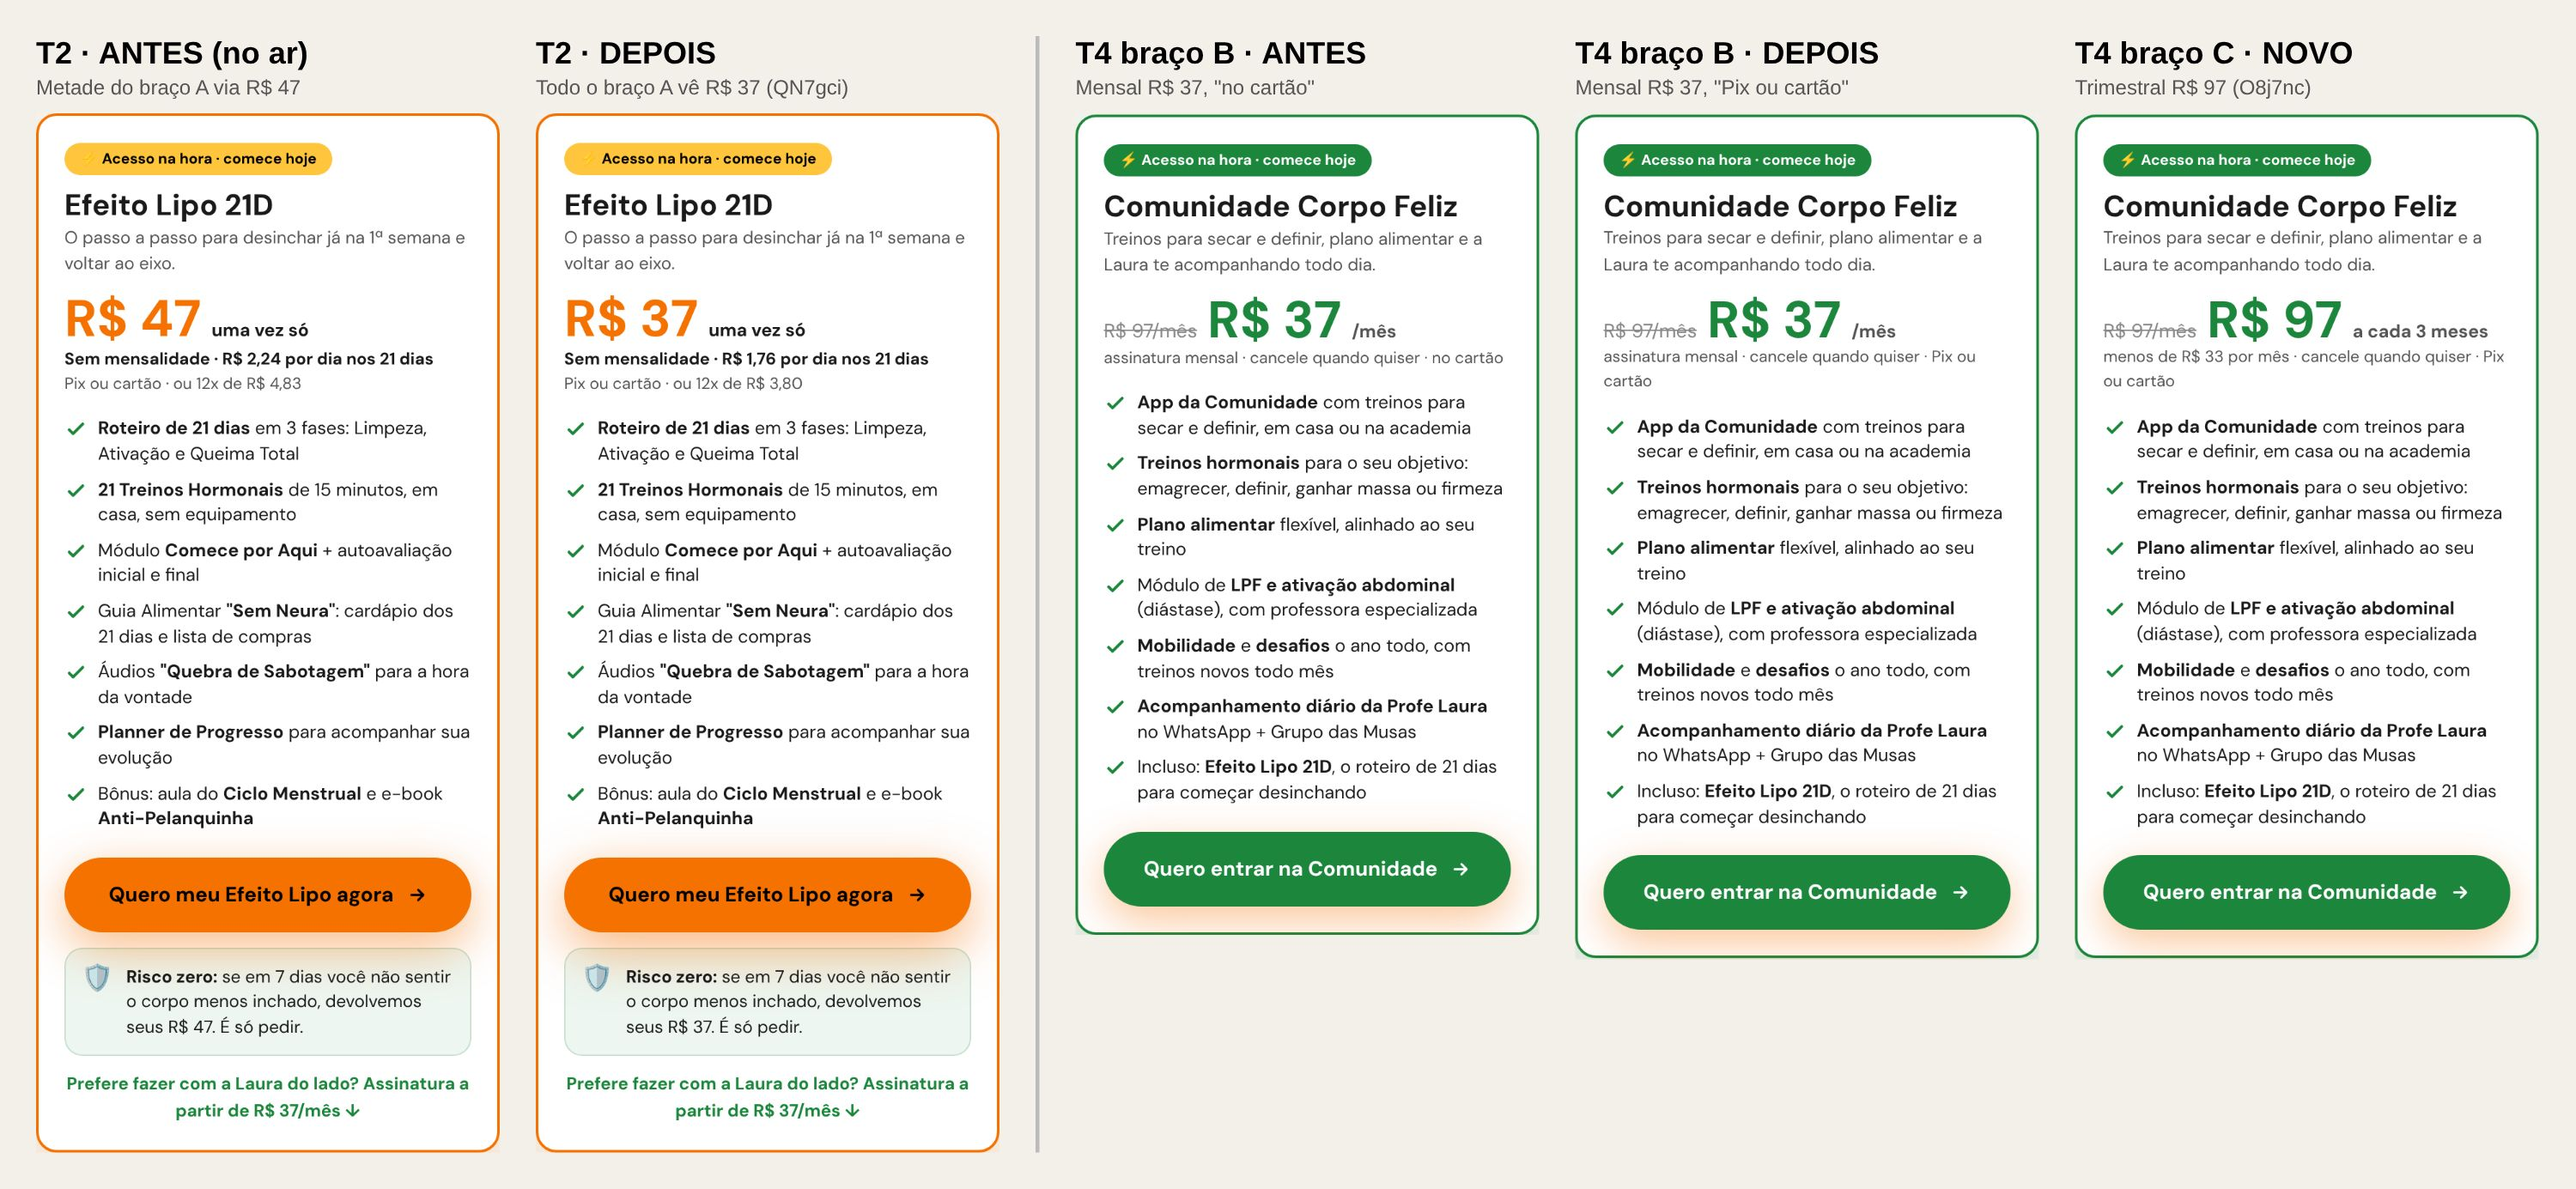
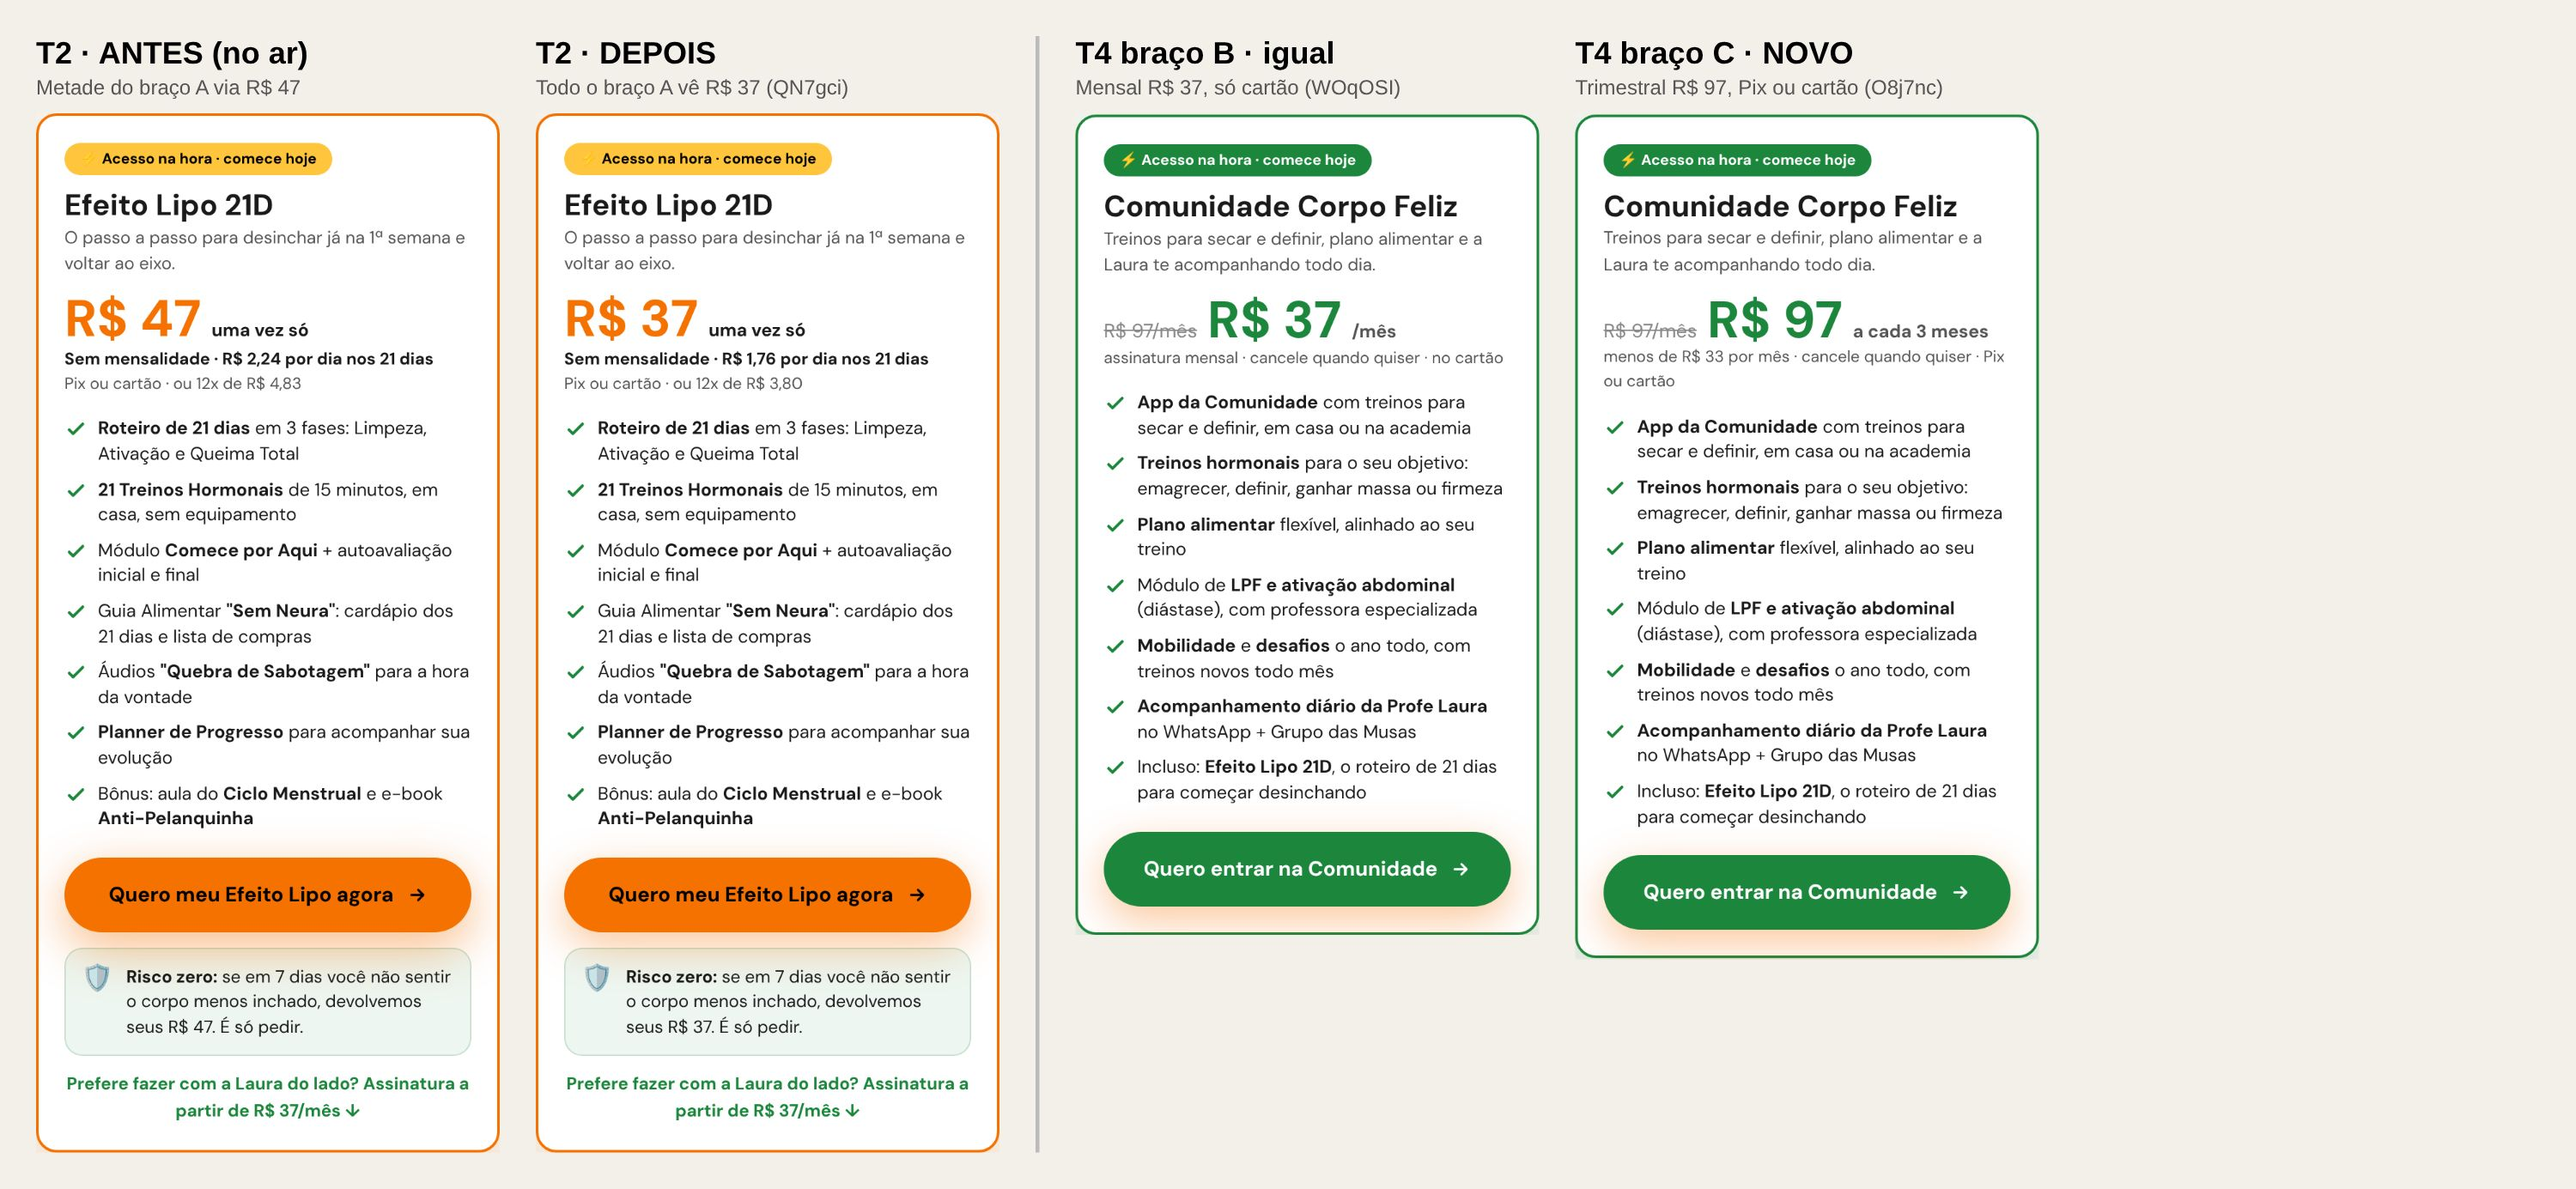
Quiz: braço B do T4 só no cartão, T4 conta de 10/10 15h, diário e docs
Patrik decidiu manter a WOqOSI só no cartão; o E-C (O8j7nc) mostra
"Pix ou cartão". Registro no diário do quiz, TESTE_A_OFERTAS e
PAINEL_CORPO_FELIZ.

Claude-Session: https://claude.ai/code/session_01WoiGwQ8HrcXzpgVXVEJnJ2

diff --git a/app/efeito-lipo-quiz/_quiz.tsx b/app/efeito-lipo-quiz/_quiz.tsx
@@ -537,10 +537,10 @@ function useCountdown(start = 600) {
 // alternativa. Teste B (preço do EL) encerrado em 10/10: todos veem R$ 37 (OFERTA_AB em _data.ts).
 // Teste E (pickComElArm): no E-B e no E-C sai o EL e a Comunidade vira o cartão principal
 // (E-B mensal R$ 37/mês, E-C trimestral R$ 97 a cada 3 meses).
-type Sub = { preco: string; per: string; nota: string; parcCurta: string }
+type Sub = { preco: string; per: string; nota: string; pag: string; parcCurta: string }
 type Oferta = { id: string; el: null | { preco: string; parc: string; dia: string }; sub: Sub }
-const SUB_MENSAL: Sub = { preco: '37', per: '/mês', nota: 'assinatura mensal · cancele quando quiser', parcCurta: 'R$ 37/mês' }
-const SUB_TRI: Sub = { preco: '97', per: 'a cada 3 meses', nota: 'menos de R$ 33 por mês · cancele quando quiser', parcCurta: 'R$ 97 a cada 3 meses' }
+const SUB_MENSAL: Sub = { preco: '37', per: '/mês', nota: 'assinatura mensal · cancele quando quiser', pag: 'no cartão', parcCurta: 'R$ 37/mês' } // WOqOSI: só cartão (decisão do Patrik, 10/10)
+const SUB_TRI: Sub = { preco: '97', per: 'a cada 3 meses', nota: 'menos de R$ 33 por mês · cancele quando quiser', pag: 'Pix ou cartão', parcCurta: 'R$ 97 a cada 3 meses' } // O8j7nc aceita Pix
 const OFERTAS: Record<'A' | 'B', Oferta> = {
   A: { id: 'A', el: { preco: '37', parc: '12x de R$ 3,80', dia: '1,76' }, sub: SUB_MENSAL },
   B: { id: 'B', el: { preco: '47', parc: '12x de R$ 4,83', dia: '2,24' }, sub: SUB_MENSAL },
@@ -630,7 +630,7 @@ function Sales({ perfil, answers, onOferta, onCheckout }: { perfil: InnerProps['
         <span className="font-display" style={{ fontSize: principal ? 40 : 32, fontWeight: 800, color: 'var(--g)', lineHeight: 1 }}>R$ {of.sub.preco}</span>
         <span style={{ fontSize: 14, color: 'var(--sub)', fontWeight: 700 }}>{of.sub.per}</span>
       </div>
-      <div style={{ fontSize: 12.5, color: 'var(--sub)' }}>{of.sub.nota} · Pix ou cartão</div>
+      <div style={{ fontSize: 12.5, color: 'var(--sub)' }}>{of.sub.nota} · {of.sub.pag}</div>
       {/* Entregáveis como a Aline apresenta a Comunidade no WhatsApp (aprovado pelo Patrik em 09/10) */}
       <ul className="space-y-2 mt-4">
         <Item><b>App da Comunidade</b> com treinos para secar e definir, em casa ou na academia</Item>

diff --git a/app/painel/testes/page.tsx b/app/painel/testes/page.tsx
@@ -65,7 +65,7 @@ export default async function Testes() {
 
   const testes: Teste[] = [
     { id: 'T1', nome: '1ª tela do quiz: tela atual × título de recomeço', status: 'no ar desde 09/10 13h40', baseRot: 'visitas', posRot: 'começaram', sobre: 'Metade vê a tela atual; metade vê "Descubra seu perfil de recomeço em 2 minutos…". Mede quantas começam o quiz. É o teste que mais recebe gente.', bracos: [t1('G-A', 'A · tela atual'), t1('G-B', 'B · título de recomeço')] },
-    { id: 'T4', nome: 'Oferta: com Efeito Lipo × só a Comunidade (mensal ou trimestral)', status: `3 braços desde ${horaBR(T4_DESDE)}`, baseRot: 'visitas na oferta', posRot: 'compraram', sobre: 'Um terço vê Efeito Lipo R$ 37 + Comunidade; um terço vê só a Comunidade a R$ 37/mês (Pix ou cartão); um terço vê só a Comunidade trimestral a R$ 97 a cada 3 meses. Decida pela receita por visita: o braço que vende menos pode faturar mais.', bracos: [t4('E-A', 'A · Efeito Lipo + Comunidade'), t4('E-B', 'B · só Comunidade R$ 37/mês'), t4('E-C', 'C · só Comunidade R$ 97/trimestre')] },
+    { id: 'T4', nome: 'Oferta: com Efeito Lipo × só a Comunidade (mensal ou trimestral)', status: `3 braços desde ${horaBR(T4_DESDE)}`, baseRot: 'visitas na oferta', posRot: 'compraram', sobre: 'Um terço vê Efeito Lipo R$ 37 + Comunidade; um terço vê só a Comunidade a R$ 37/mês (só cartão); um terço vê só a Comunidade trimestral a R$ 97 a cada 3 meses (Pix ou cartão). Decida pela receita por visita: o braço que vende menos pode faturar mais.', bracos: [t4('E-A', 'A · Efeito Lipo + Comunidade'), t4('E-B', 'B · só Comunidade R$ 37/mês'), t4('E-C', 'C · só Comunidade R$ 97/trimestre')] },
   ]
   const t2Fim = [t2('greenn', 'A · R$ 37 (QN7gci)'), t2('greenn-B', 'B · R$ 47 (gLO7Gm)')]
 

diff --git a/app/efeito-lipo-quiz/_data.ts b/app/efeito-lipo-quiz/_data.ts
@@ -128,7 +128,7 @@ export const CHECKOUT_HREF_GREENN =
 // Teste B (preço do Efeito Lipo, 09/10): braço B = R$ 47 (oferta gLO7Gm, mesmos 3 bumps da QN7gci).
 export const CHECKOUT_HREF_GREENN_B =
   'https://payfast.greenn.com.br/redirect/795991?utm_source=efeito-lipo-quiz'
-// Assinatura da Comunidade R$ 37/mês (oferta WOqOSI, recorrente, Pix ou cartão). Mesmos UTMs do EL.
+// Assinatura da Comunidade R$ 37/mês (oferta WOqOSI, recorrente, só cartão). Mesmos UTMs do EL.
 export const CHECKOUT_HREF_SUB =
   'https://payfast.greenn.com.br/148344/offer/WOqOSI?ch_id=140597&utm_source=efeito-lipo-quiz'
 // Comunidade trimestral R$ 97 a cada 3 meses (oferta O8j7nc, a mesma do upsell; aceita Pix). Braço E-C do teste E.
@@ -163,8 +163,8 @@ export function pickOfertaArm(): OfertaArm {
 
 // Teste E (com ou sem Efeito Lipo; 3 braços desde 10/10, um terço cada):
 // E-A = cartão do EL R$ 37 + Comunidade mensal como alternativa;
-// E-B = só a Comunidade mensal R$ 37/mês (WOqOSI);
-// E-C = só a Comunidade trimestral R$ 97 a cada 3 meses (O8j7nc).
+// E-B = só a Comunidade mensal R$ 37/mês (WOqOSI, só cartão);
+// E-C = só a Comunidade trimestral R$ 97 a cada 3 meses (O8j7nc, Pix ou cartão).
 export const COM_EL_AB_KEY = 'el_com_ab'
 export type ComElArm = 'E-A' | 'E-B' | 'E-C'
 export function pickComElArm(): ComElArm {

diff --git a/app/painel/_config.ts b/app/painel/_config.ts
@@ -136,10 +136,10 @@ export const TESTES_DESDE = '2026-10-09T16:30:00-03:00'
 export const TESTE_MIN = 100 // mínimo no braço menor para decidir
 export const TESTE_CHANCE = 0.95 // chance mínima para decidir
 // T2 (preço do EL R$ 37 × R$ 47) encerrado em 10/10 sem volume para decidir.
-export const T2_FIM = '2026-10-10T18:00:00-03:00'
-// T4 com 3 braços (E-A com EL, E-B mensal R$ 37 com Pix, E-C trimestral R$ 97) conta daqui:
-// antes disso o E-B era só cartão e o E-C não existia. Ajustar para a hora exata do deploy.
-export const T4_DESDE = '2026-10-10T18:00:00-03:00'
+export const T2_FIM = '2026-10-10T15:00:00-03:00'
+// T4 com 3 braços (E-A com EL R$ 37, E-B mensal R$ 37 só cartão, E-C trimestral R$ 97) conta daqui:
+// antes disso eram 2 braços e metade do E-A via o EL a R$ 47. Deploy de 10/10 ficou pronto antes das 15h.
+export const T4_DESDE = '2026-10-10T15:00:00-03:00'
 
 // Faixas de referência (pesquisa de mercado, 09/10; são pontos de partida, não regra).
 export const REGUA = {

diff --git a/docs/QUIZ_REVISAO.md b/docs/QUIZ_REVISAO.md
@@ -165,6 +165,7 @@ Pasta `tools/quiz-revisao/`: tem dependências próprias e não entra no build d
 
 Uma linha por sessão: data, o que foi feito e o que ficou pendente. Mais recente em cima.
 
+- **10/10/2026, 15h**: **Fim do teste B (T2) e T4 com 3 braços** (aprovado pelo Patrik). Análise do mês: os testes do quiz não mudaram o caixa (quiz novo 2 vendas em 4 dias, R$ 73 líquido para R$ 330 no Meta; 97% do líquido do período é Comunidade). T2 encerrado (`OFERTA_AB.enabled=false`, todos veem o EL a R$ 37). T4: um terço E-A (EL R$ 37 + Comunidade), um terço E-B (só Comunidade mensal R$ 37, WOqOSI, **só cartão**, decisão do Patrik), um terço E-C (só Comunidade trimestral R$ 97, O8j7nc, Pix ou cartão; o Patrik confirmou que dá acesso à Comunidade, apesar do nome "Acompanhamento 30 dias + 60 dias grátis" no checkout). Painel `/painel/testes`: T2 em encerrados, T4 conta de `T4_DESDE` (10/10 15h) com receita por visita. Antes × depois em `tools/quiz-revisao/esbocos/img/cmp-T2-fim-T4-tres-bracos.jpg`. Achado: das 7 que clicaram na mensal só cartão, nenhuma tentou pagar; todas as compras do quiz em outubro foram Pix. Atenção: E-B (só cartão) × E-C (com Pix) mistura preço e forma de pagamento. **Pendente:** ler o T4 pela receita por visita (≈ 2 semanas no ritmo atual).
 - **09/10/2026 (2), fim da tarde**: **Nova estratégia: Efeito Lipo no-brainer + assinatura como âncora** (nada no ar). T26 refeita e aprovada (EL em destaque, "R$ 37 uma vez só", garantia de 7 dias amarrada a "corpo menos inchado", 5 ofertas A–E em teste), T25 aprovada, T1 vai a teste A/B, upsell volta para `/acompanhamento-up` testando assinatura 37/mês × trimestral 97, painel único e página MAXXIMA decididos. Esboços em `tools/quiz-revisao/esbocos/` (`montar.sh`). Estado completo, decisões e fila em **`docs/RETOMAR_OFERTA_EL.md`**. **Pendente:** Patrik criar na Greenn a oferta EL R$ 47 e mandar o link (item 1 da fila).
 - **09/10/2026 (1), 10h**: **Esboço da T26 com duas opções** (nada no ar; proposta `quiz-t26-duas-opcoes-20261009` no painel, com imagens antes × depois). Decisões do Patrik: Comunidade como assinatura **R$ 27/mês, cancele quando quiser** (só cartão, R$ 97/mês riscado, assinante acessa todo o conteúdo do roteiro, sem limite de atendimento); roteiro sozinho a **R$ 47** (12x R$ 4,83) com os 3 entregáveis que existem (Guia "Sem Neura", Áudios, Planner) + 2 bônus; Comunidade conta na meta (texto da meta atualizado). T25 no esboço: marcos sem quilos, quadro "O que mais ajuda o seu perfil", botão "Ver como começar". Dados usados: outubro até 09/10 low ticket R$ 277 líquido × Comunidade R$ 6.349; mensal da Comunidade dura 1,3 mês em média, planos anuais ~10,7 meses; maior medo no quiz = "gastar e não ter resultado" (10 de 22). **Pendente:** Patrik criar na Greenn as ofertas (roteiro R$ 47 com os mesmos bumps; Comunidade R$ 27/mês) e mandar os links + ok final no esboço; conferir a duração média da assinatura com 30 e 60 dias.
 - **08/10/2026 (10), 18h53**: **fbclid no checkout** (PR #15, merge `cd27aed`), aprovado pelo Patrik com antes/depois: o beacon guarda o `fbclid` da entrada em `el_fbclid` e `checkoutHrefFor` cola `&fbclid=` no link da Greenn (o redirect `/redirect/297430` preserva o parâmetro até a QN7gci, testado). Sem mudança de tela, então não virou versão nova (anotado no cartão da v7). Hotmart de reserva mantida (decisão do Patrik). **Conferir:** na próxima venda vinda de anúncio, se a "Compra Realizada" do pixel da LP aparece ligada ao anúncio.

diff --git a/docs/PAINEL_CORPO_FELIZ.md b/docs/PAINEL_CORPO_FELIZ.md
@@ -13,7 +13,7 @@ Senha: a mesma do dashboard (variável `QUIZ_DASHBOARD_PASSWORD` na Vercel).
 | Tráfego | Anúncios e ROI | `/painel/anuncios` | Campanha / conjunto / anúncio: gasto, CTR, CPM, cliques, % que abriu a página, visitas e início do quiz, clique em comprar, compras reais, líquido, ROI, custo por compra, sinal (Escalar, Lucrando, Prejuízo, Pausar?, Trocar criativo) e "Como melhorar" |
 | Tráfego | Criativos | `/painel/anuncios?nivel=anuncio` | A mesma tabela no nível anúncio |
 | Quiz e oferta | Funil do quiz | `/painel/quiz` | Tela a tela (onde as pessoas param), perfil de recomeço, anúncio de origem com valor por visita, respostas que mais compram, últimas sessões |
-| Quiz e oferta | Testes A/B | `/painel/testes` | T1, T4, T2 com a chance de cada braço ser o melhor (duas proporções) + ideias T3, T5, T6 |
+| Quiz e oferta | Testes A/B | `/painel/testes` | T1 e T4 (3 braços) com a chance de cada braço ser o melhor (duas proporções contra o A), T2 em encerrados + ideias T3 e T6 |
 | Quiz e oferta | Recuperar vendas | `/painel/recuperar` | Pix/boleto sem pagar e cartão recusado (com botão de WhatsApp), quem clicou comprar e não comprou, e "Por que não compram" |
 | Vendas | Origem e comercial | `/painel/comercial` | De onde veio cada venda (Quiz, Anúncio direto, WhatsApp da Aline, Hotmart direto, Renovação), Comunidade nova × renovação, plano, oferta, dia a dia e funil da Aline (CRM, se ligado) |
 | Vendas | Visão da marca, Canais, Cross-sell, Recorrência | `/painel/marca`, `/canais`, `/cross-sell`, `/recorrencia` | As abas antigas do Painel da Marca. A Recorrência ganhou a lista de assinaturas a vencer e vencidas (14 dias) |
@@ -37,7 +37,7 @@ Senha: a mesma do dashboard (variável `QUIZ_DASHBOARD_PASSWORD` na Vercel).
   5. Hotmart (link direto).
   6. Sem rastreio.
 - **Pix/boleto pendente** = a transação nunca aprovou nem foi recusada ou cancelada, o último status é WAITING_PAYMENT, DELAYED, BILLET_PRINTED ou CREATED, e o e-mail não comprou depois.
-- **Testes**: contam desde 09/10 16h30 e decidem com 100+ no braço menor e 95% de chance.
+- **Testes**: contam desde 09/10 16h30 (o T4 com 3 braços desde 10/10 15h, `T4_DESDE`) e decidem com 100+ no braço menor e 95% de chance. O T4 se decide pela receita por visita.
 
 ## Onde mudar
 

diff --git a/docs/TESTE_A_OFERTAS.md b/docs/TESTE_A_OFERTAS.md
@@ -55,3 +55,4 @@ Status: só o **Teste A** está feito. Os outros esperam sua aprovação e os li
 - **Medida em todos:** receita por visita na T26 (inclui a 1ª mensalidade).
 
 Nada disso muda preço, checkout ou link até você aprovar e criar as ofertas na Greenn (CLAUDE.md).
+- **10/10:** Teste B (T2) **encerrado** sem volume (todos veem o EL a R$ 37). Teste E (T4) passou a ter 3 braços: E-A com EL, E-B só Comunidade mensal R$ 37 (WOqOSI, só cartão), E-C só Comunidade trimestral R$ 97 (O8j7nc). O antigo Teste D (mensal × trimestral) roda dentro dele.
